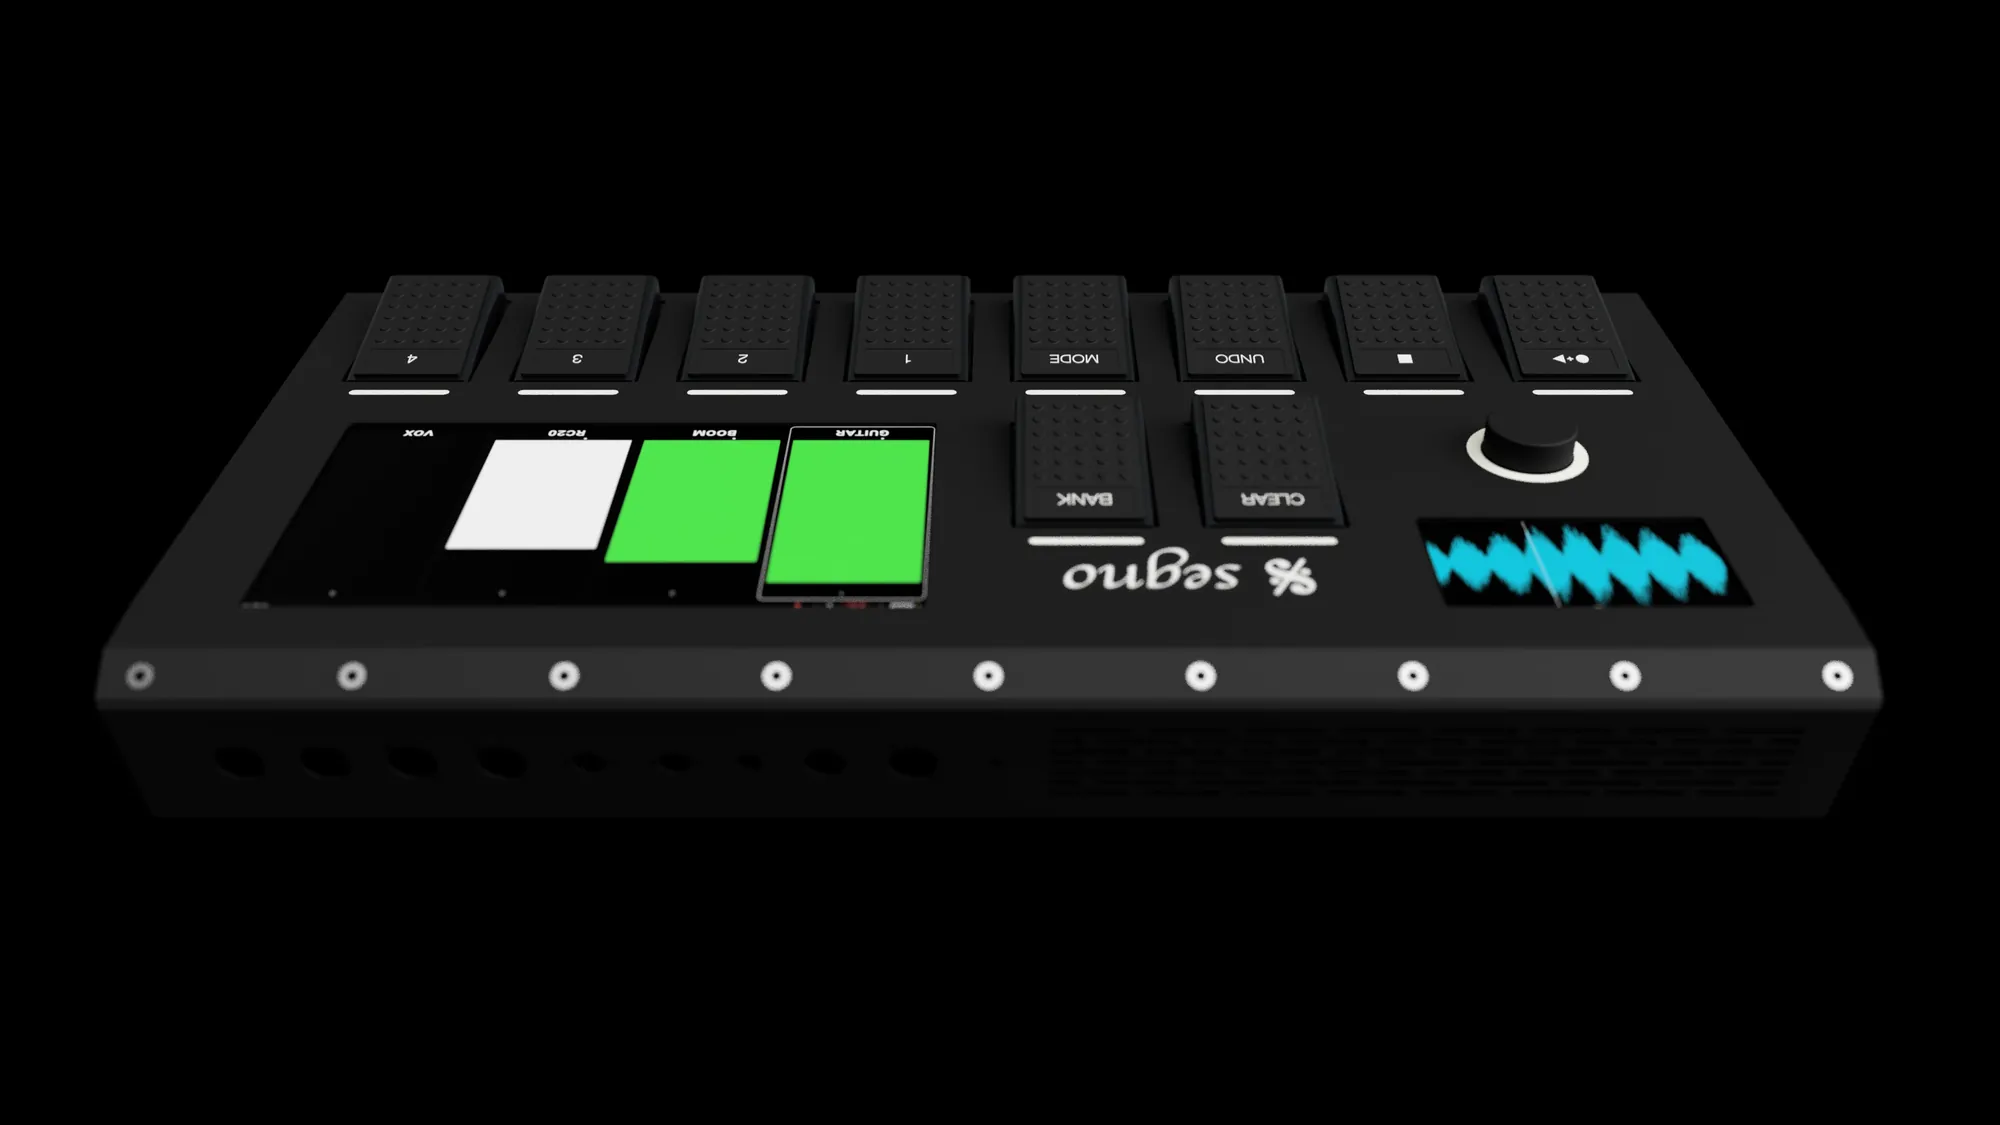
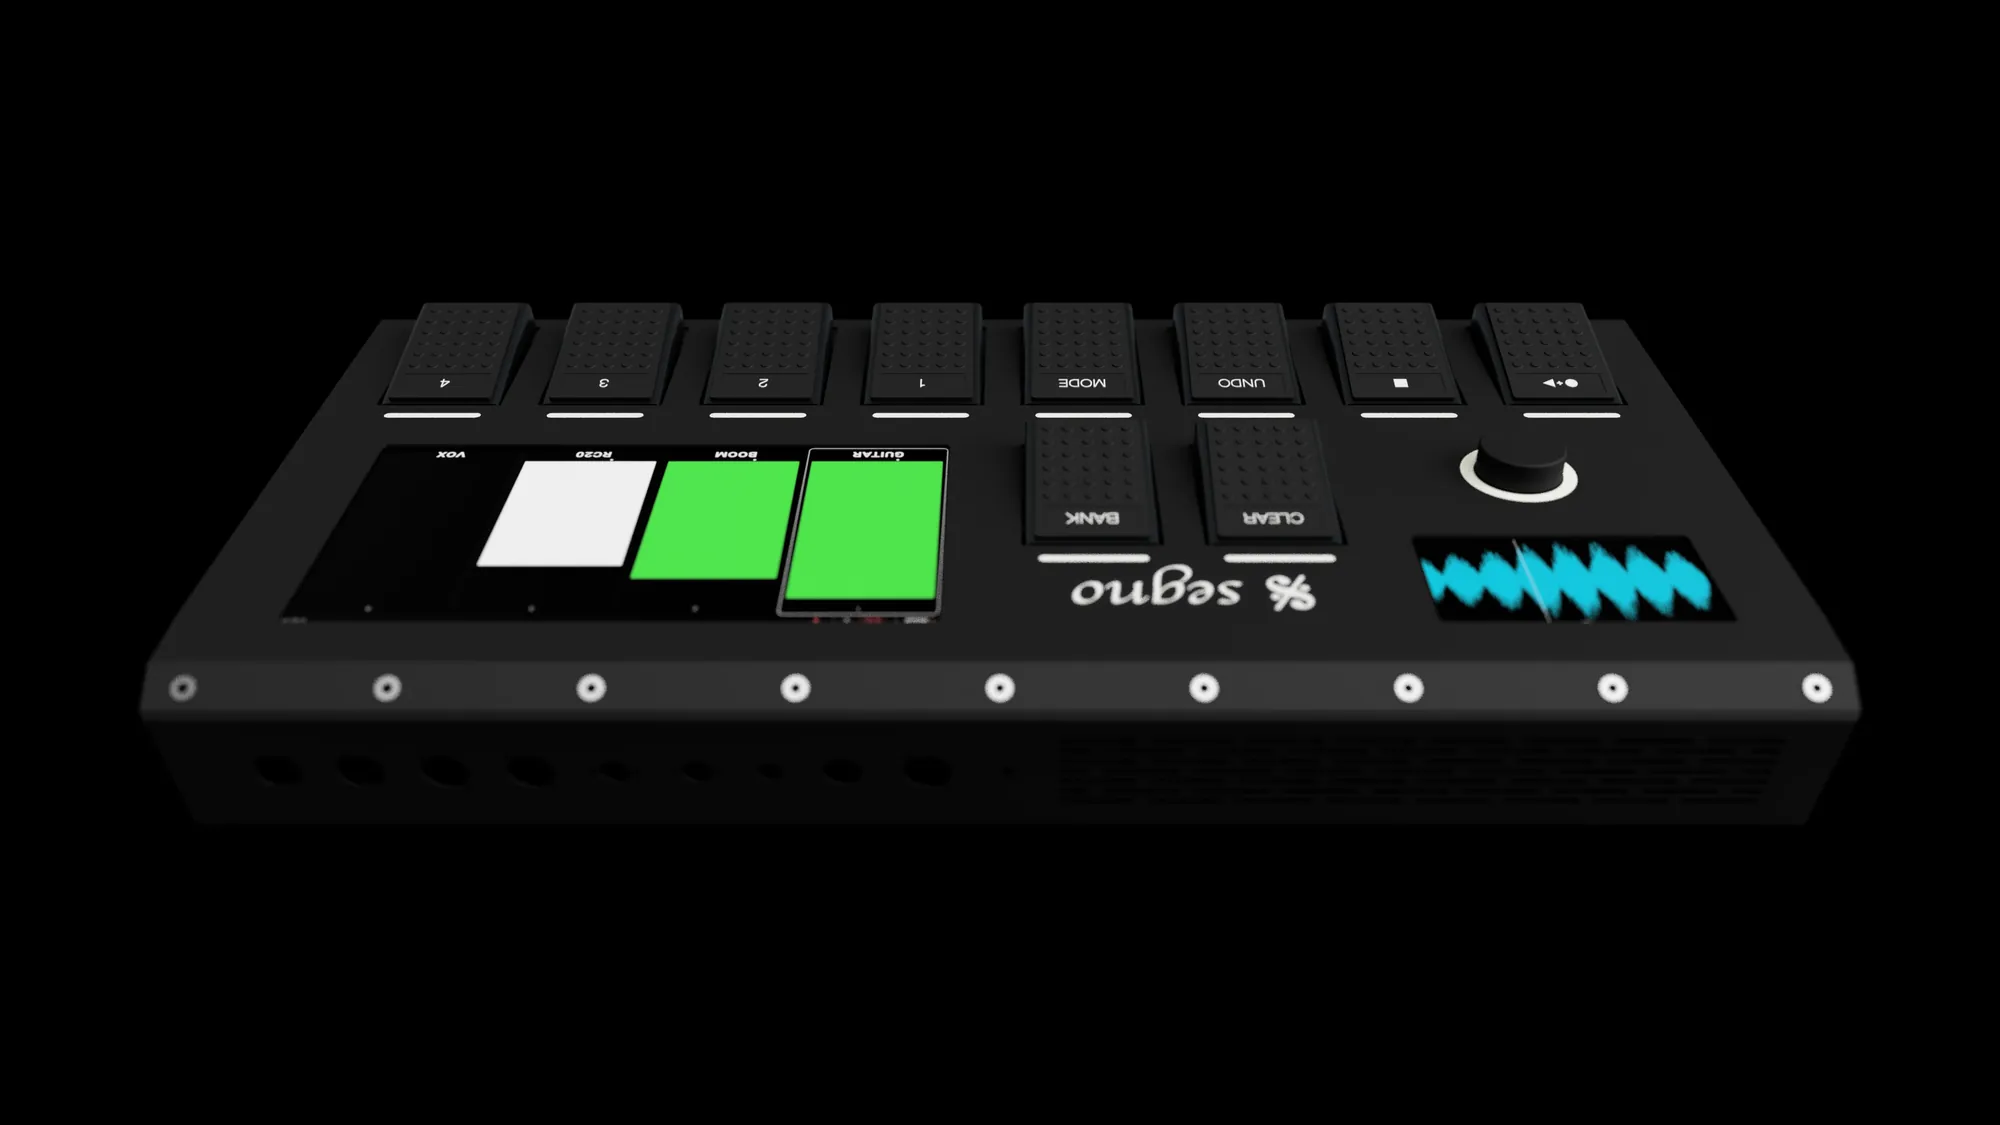
docs(site): centre the renders, phone navigation, asset versions, 404 (#1416)
* docs(site): centre the renders, phone navigation, asset versions, 404

- Re-crop every console render (hero, gallery, link preview) around the
  console's bounding box, so it sits in the middle of the frame.
- Phones keep the section links in a second header row; add a skip link.
- site/stamp.py versions every asset reference by content hash, nginx
  caches assets for a year, and the Site workflow fails on a stale version.
- Add a styled 404 page, robots.txt, sitemap.xml, a Twitter card tag and
  HSTS.
- Remove the #1409 row left in the Active threads table.

axe-core reports no violations in light or dark, on the page and the 404.

Closes #1415

* docs(site): version any cached asset path, show the phone nav scrollbar

stamp.py now versions every reference to a css, webp, jpg, png, svg or
woff2 file that exists under public/, including the absolute og:image URL,
instead of a fixed list of directories, so a new asset cannot be cached for
a year unversioned.

diff --git a/site/public/index.html b/site/public/index.html
@@ -9,20 +9,22 @@
 <meta name="theme-color" content="#0b0b0c" media="(prefers-color-scheme: dark)">
 <meta name="theme-color" content="#f6f6f4" media="(prefers-color-scheme: light)">
 <link rel="canonical" href="https://segno.aquiles.dev/">
-<link rel="icon" href="favicon.svg" type="image/svg+xml">
+<link rel="icon" href="favicon.svg?v=3c135dbe" type="image/svg+xml">
 <meta property="og:type" content="website">
 <meta property="og:title" content="Segno: a live looping appliance">
 <meta property="og:description" content="A floor console, a native C audio engine and a Flutter interface on a Raspberry Pi 5. Open source under GPLv3.">
 <meta property="og:url" content="https://segno.aquiles.dev/">
-<meta property="og:image" content="https://segno.aquiles.dev/img/og.jpg">
+<meta property="og:image" content="https://segno.aquiles.dev/img/og.jpg?v=999b8210">
 <meta property="og:image:width" content="1200">
 <meta property="og:image:height" content="630">
 <meta property="og:image:alt" content="Render of the Segno floor console.">
-<link rel="preload" href="fonts/Inter-Regular.woff2" as="font" type="font/woff2" crossorigin>
-<link rel="preload" href="fonts/Inter-SemiBold.woff2" as="font" type="font/woff2" crossorigin>
-<link rel="stylesheet" href="styles.css">
+<meta name="twitter:card" content="summary_large_image">
+<link rel="preload" href="fonts/Inter-Regular.woff2?v=5fedeecb" as="font" type="font/woff2" crossorigin>
+<link rel="preload" href="fonts/Inter-SemiBold.woff2?v=a6a1a4db" as="font" type="font/woff2" crossorigin>
+<link rel="stylesheet" href="styles.css?v=fb5c33e8">
 </head>
 <body>
+<a class="skip" href="#main">Skip to content</a>
 <svg class="sprite" aria-hidden="true">
   <symbol id="glyph" viewBox="0 0 1024 1024">
     <path transform="matrix(0.88590331 0 0 -0.88590331 266.60478372 836.24061069)" fill="currentColor" d="M135 665C141 665 148 663 151 652L153 645C160 618 175 559 226 559C267 559 295 583 295 626C295 641 292 657 287 673C271 719 204 736 153 736C83 736 4 650 4 551C4 527 9 502 20 477C52 404 197 315 205 312C209 310 211 308 211 304C211 300 209 295 205 288C198 274 54 15 54 15C52 11 51 6 51 2C51 -14 63 -27 79 -27C89 -27 99 -21 104 -12C104 -12 259 268 262 274C262 273 270 279 274 279C289 276 489 217 489 122C489 83 465 57 431 52L428 51C407 51 390 65 390 96V107C390 145 365 173 337 173C333 173 329 172 325 171C288 162 254 146 254 106C254 45 316 -8 375 -8C388 -8 402 -6 417 -1C497 26 550 91 550 174C550 183 549 193 548 203C533 313 375 402 363 408C351 415 346 419 346 424C346 426 347 428 348 430C353 438 508 717 508 717C511 722 512 726 512 731C512 747 499 759 484 759C474 759 464 754 459 745C459 745 300 458 294 449C291 444 289 441 285 441C282 441 279 442 275 444C266 447 115 505 89 550C83 561 75 582 75 603C75 630 87 658 129 665ZM415 466C415 435 441 409 472 409C504 409 529 435 529 466C529 498 504 523 472 523C441 523 415 498 415 466ZM140 264C140 295 115 321 83 321C52 321 26 295 26 264C26 232 52 207 83 207C115 207 140 232 140 264Z"/>
@@ -31,7 +33,7 @@
 
 <header class="bar">
   <div class="wrap bar-inner">
-    <a class="brand" href="#top" aria-label="Segno home">
+    <a class="brand" href="#main" aria-label="Segno, back to top">
       <svg class="brand-glyph" aria-hidden="true"><use href="#glyph"/></svg>
       <span class="brand-word">segno</span>
     </a>
@@ -44,7 +46,7 @@
   </div>
 </header>
 
-<main id="top">
+<main id="main" tabindex="-1">
   <section class="hero">
     <div class="wrap">
       <p class="eyebrow">Open source &middot; GPLv3</p>
@@ -56,8 +58,8 @@
       </div>
     </div>
     <figure class="hero-figure wrap">
-      <img src="img/console-iso-1200.webp"
-           srcset="img/console-iso-1200.webp 1200w, img/console-iso-2000.webp 2000w"
+      <img src="img/console-iso-1200.webp?v=d8154f14"
+           srcset="img/console-iso-1200.webp?v=d8154f14 1200w, img/console-iso-2000.webp?v=5b39a6c4 2000w"
            sizes="(min-width: 1200px) 1120px, 100vw"
            width="1200" height="675" fetchpriority="high"
            alt="The Segno console seen from above at an angle: ten footswitches with light bars, an encoder with a light ring, a small screen showing a waveform, and a large screen showing four tracks.">
@@ -110,12 +112,12 @@
       <p class="section-lede">The large screen shows the tracks and the mixer. The interface is a Flutter app that runs directly on the display hardware, one Flutter engine per screen.</p>
       <div class="shots">
         <figure>
-          <img src="img/tracks-main-window-1600.webp" width="1600" height="900" loading="lazy"
+          <img src="img/tracks-main-window-1600.webp?v=56dac517" width="1600" height="900" loading="lazy"
                alt="The Tracks view: four tracks named GUITAR, BOOM, RC20 and VOX with level meters, a timer and a BPM readout.">
           <figcaption>Tracks view.</figcaption>
         </figure>
         <figure>
-          <img src="img/tracks-mixer-window-1600.webp" width="1600" height="900" loading="lazy"
+          <img src="img/tracks-mixer-window-1600.webp?v=eb9b1342" width="1600" height="900" loading="lazy"
                alt="The mixer view: each track has mute and solo buttons, a pan control, a level in decibels and stereo meters.">
           <figcaption>Mixer view.</figcaption>
         </figure>
@@ -130,22 +132,22 @@
       <p class="section-lede">A wedge-shaped folded sheet-metal console, 850&nbsp;mm wide, with the top sloping toward the player. The ten footswitches are built into the chassis and wired inside it.</p>
       <div class="gallery">
         <figure class="wide">
-          <img src="img/console-low-1200.webp"
-               srcset="img/console-low-1200.webp 1200w, img/console-low-2000.webp 2000w"
+          <img src="img/console-low-1200.webp?v=d48be298"
+               srcset="img/console-low-1200.webp?v=d48be298 1200w, img/console-low-2000.webp?v=b2470c5f 2000w"
                sizes="(min-width: 1200px) 1120px, 100vw"
                width="1200" height="675" loading="lazy"
                alt="The console from a low angle at the left side, showing the ventilation slots, the waveform screen and the row of footswitches.">
         </figure>
         <figure>
-          <img src="img/console-rear-1200.webp"
-               srcset="img/console-rear-1200.webp 1200w, img/console-rear-2000.webp 2000w"
+          <img src="img/console-rear-1200.webp?v=e4e9c707"
+               srcset="img/console-rear-1200.webp?v=e4e9c707 1200w, img/console-rear-2000.webp?v=4c2ae073 2000w"
                sizes="(min-width: 760px) 50vw, 100vw"
                width="1200" height="675" loading="lazy"
                alt="The console seen from behind, showing the rear panel openings for connectors and a ventilation grille.">
         </figure>
         <figure>
-          <img src="img/console-edge-1200.webp"
-               srcset="img/console-edge-1200.webp 1200w, img/console-edge-2000.webp 2000w"
+          <img src="img/console-edge-1200.webp?v=fa1a1450"
+               srcset="img/console-edge-1200.webp?v=fa1a1450 1200w, img/console-edge-2000.webp?v=fe794d0c 2000w"
                sizes="(min-width: 760px) 50vw, 100vw"
                width="1200" height="675" loading="lazy"
                alt="The console seen almost edge-on along its top surface, with the footswitches and the large screen catching the light.">
@@ -167,7 +169,7 @@
           </ul>
         </div>
         <figure class="board">
-          <img src="img/console-board-1000.webp" width="1000" height="1000" loading="lazy"
+          <img src="img/console-board-1000.webp?v=ec4f0eb4" width="1000" height="1000" loading="lazy"
                alt="The console board v3: a purple circuit board with a Raspberry Pi Pico 2 in the middle, a 40-pin header for the Raspberry Pi, and labelled connectors for each footswitch, MIDI, the CTRL jacks, the LED pills and the ring board.">
           <figcaption>Console board v3, KiCad 3D view. Through-hole parts, designed to be soldered by hand.</figcaption>
         </figure>

diff --git a/site/public/styles.css b/site/public/styles.css
@@ -1,18 +1,18 @@
 @font-face {
   font-family: "Inter";
-  src: url("fonts/Inter-Regular.woff2") format("woff2");
+  src: url("fonts/Inter-Regular.woff2?v=5fedeecb") format("woff2");
   font-weight: 400;
   font-display: swap;
 }
 @font-face {
   font-family: "Inter";
-  src: url("fonts/Inter-SemiBold.woff2") format("woff2");
+  src: url("fonts/Inter-SemiBold.woff2?v=a6a1a4db") format("woff2");
   font-weight: 600;
   font-display: swap;
 }
 @font-face {
   font-family: "JetBrains Mono";
-  src: url("fonts/JetBrainsMono-Regular.woff2") format("woff2");
+  src: url("fonts/JetBrainsMono-Regular.woff2?v=13f9151f") format("woff2");
   font-weight: 400;
   font-display: swap;
 }
@@ -60,6 +60,20 @@ body {
   text-rendering: optimizeLegibility;
 }
 .sprite { position: absolute; width: 0; height: 0; }
+.skip {
+  position: absolute;
+  left: 16px;
+  top: -100px;
+  z-index: 20;
+  padding: 10px 16px;
+  border-radius: 8px;
+  background: var(--text);
+  color: var(--bg);
+  font-weight: 600;
+  text-decoration: none;
+}
+.skip:focus { top: calc(12px + env(safe-area-inset-top, 0px)); }
+main:focus { outline: none; }
 img { display: block; max-width: 100%; height: auto; }
 a { color: inherit; text-decoration-color: var(--line); text-underline-offset: 3px; }
 a:hover { text-decoration-color: currentColor; }
@@ -100,8 +114,19 @@ p { margin: 0; }
 }
 .nav a:hover { color: var(--text); background: var(--surface-2); }
 .nav .nav-source { color: var(--text); border: 1px solid var(--line); }
+/* Phones: the links move to a second row that scrolls sideways if it must. */
 @media (max-width: 620px) {
-  .nav a:not(.nav-source) { display: none; }
+  html { scroll-padding-top: 112px; }
+  .bar-inner { flex-wrap: wrap; height: auto; gap: 0; padding-block: 10px 6px; }
+  .nav {
+    width: calc(100% + 16px);
+    margin-inline: -8px;
+    padding-top: 4px;
+    overflow-x: auto;
+    scrollbar-width: thin;
+  }
+  .nav a { flex: none; padding-inline: 8px; }
+  .nav .nav-source { margin-left: auto; }
 }
 
 /* Hero */
@@ -275,3 +300,8 @@ h2 { font-size: clamp(30px, 4.2vw, 44px); }
 .foot { border-top: 1px solid var(--line); padding-block: 28px calc(28px + env(safe-area-inset-bottom, 0px)); }
 .foot-inner { display: flex; flex-wrap: wrap; justify-content: space-between; gap: 8px 24px; font-size: 14px; color: var(--muted); }
 .foot-glyph { width: 18px; height: 18px; vertical-align: -4px; color: var(--text); }
+
+/* 404 page */
+.missing { min-height: 100vh; min-height: 100dvh; display: flex; flex-direction: column; justify-content: center; padding-block: 48px; }
+.missing-glyph { width: 64px; height: 64px; margin-bottom: 24px; }
+.missing .actions { margin-top: 28px; }

diff --git a/site/public/404.html b/site/public/404.html
@@ -1,0 +1,29 @@
+<!doctype html>
+<html lang="en">
+<head>
+<meta charset="utf-8">
+<meta name="viewport" content="width=device-width, initial-scale=1, viewport-fit=cover">
+<title>Page not found · Segno</title>
+<meta name="robots" content="noindex">
+<meta name="color-scheme" content="dark light">
+<link rel="icon" href="/favicon.svg?v=3c135dbe" type="image/svg+xml">
+<link rel="stylesheet" href="/styles.css?v=fb5c33e8">
+</head>
+<body>
+<svg class="sprite" aria-hidden="true">
+  <symbol id="glyph" viewBox="0 0 1024 1024">
+    <path transform="matrix(0.88590331 0 0 -0.88590331 266.60478372 836.24061069)" fill="currentColor" d="M135 665C141 665 148 663 151 652L153 645C160 618 175 559 226 559C267 559 295 583 295 626C295 641 292 657 287 673C271 719 204 736 153 736C83 736 4 650 4 551C4 527 9 502 20 477C52 404 197 315 205 312C209 310 211 308 211 304C211 300 209 295 205 288C198 274 54 15 54 15C52 11 51 6 51 2C51 -14 63 -27 79 -27C89 -27 99 -21 104 -12C104 -12 259 268 262 274C262 273 270 279 274 279C289 276 489 217 489 122C489 83 465 57 431 52L428 51C407 51 390 65 390 96V107C390 145 365 173 337 173C333 173 329 172 325 171C288 162 254 146 254 106C254 45 316 -8 375 -8C388 -8 402 -6 417 -1C497 26 550 91 550 174C550 183 549 193 548 203C533 313 375 402 363 408C351 415 346 419 346 424C346 426 347 428 348 430C353 438 508 717 508 717C511 722 512 726 512 731C512 747 499 759 484 759C474 759 464 754 459 745C459 745 300 458 294 449C291 444 289 441 285 441C282 441 279 442 275 444C266 447 115 505 89 550C83 561 75 582 75 603C75 630 87 658 129 665ZM415 466C415 435 441 409 472 409C504 409 529 435 529 466C529 498 504 523 472 523C441 523 415 498 415 466ZM140 264C140 295 115 321 83 321C52 321 26 295 26 264C26 232 52 207 83 207C115 207 140 232 140 264Z"/>
+  </symbol>
+</svg>
+
+<main id="main" class="missing wrap">
+  <svg class="missing-glyph" aria-hidden="true"><use href="#glyph"/></svg>
+  <h1>Page not found</h1>
+  <p class="lede">There is nothing at this address.</p>
+  <div class="actions">
+    <a class="button primary" href="/">Go to the Segno page</a>
+    <a class="button" href="https://github.com/tomassasovsky/segno">View the source on GitHub</a>
+  </div>
+</main>
+</body>
+</html>

diff --git a/site/stamp.py b/site/stamp.py
@@ -1,0 +1,67 @@
+#!/usr/bin/env python3
+"""Version every local asset reference in the site by content hash.
+
+Each reference to a file under site/public with an extension nginx caches
+(css, webp, jpg, png, svg, woff2) gets `?v=<first 8 hex of its sha256>`, so
+nginx can cache assets for a year and a changed file still reaches visitors
+at once.
+
+    python3 site/stamp.py           rewrite the references in place
+    python3 site/stamp.py --check   exit 1 if any reference is stale (CI)
+
+styles.css is stamped before the pages because its own hash covers the
+font references inside it.
+"""
+
+import hashlib
+import pathlib
+import re
+import sys
+
+PUBLIC = pathlib.Path(__file__).resolve().parent / "public"
+# styles.css first: the pages reference it, so its hash must be final.
+FILES = ["styles.css", "index.html", "404.html"]
+# A relative or root-relative path, or a URL on the site's own host (og:image),
+# with an extension nginx caches for a year (nginx.conf). Paths that do not
+# name a file under public/ are left alone.
+ASSET = re.compile(
+    r"(?P<prefix>https://segno\.aquiles\.dev/|(?<![\w./:-])/?)"
+    r"(?P<path>[\w-][\w./-]*\.(?:css|webp|jpg|png|svg|woff2))"
+    r"(?:\?v=[0-9a-f]*)?"
+)
+
+
+def version(path: str) -> str:
+    return hashlib.sha256((PUBLIC / path).read_bytes()).hexdigest()[:8]
+
+
+def stamp(text: str) -> str:
+    def replace(m: re.Match) -> str:
+        if not (PUBLIC / m["path"]).is_file():
+            return m[0]
+        return f"{m['prefix']}{m['path']}?v={version(m['path'])}"
+
+    return ASSET.sub(replace, text)
+
+
+def main() -> int:
+    check = "--check" in sys.argv[1:]
+    stale = []
+    for name in FILES:
+        file = PUBLIC / name
+        before = file.read_text(encoding="utf-8")
+        after = stamp(before)
+        if after != before:
+            stale.append(name)
+            if not check:
+                file.write_text(after, encoding="utf-8")
+    if check and stale:
+        print(f"stale asset versions in {', '.join(stale)}; run python3 site/stamp.py")
+        return 1
+    if not check:
+        print(f"stamped {', '.join(stale) or 'nothing (already current)'}")
+    return 0
+
+
+if __name__ == "__main__":
+    sys.exit(main())

diff --git a/site/README.md b/site/README.md
@@ -7,12 +7,27 @@ no build step and no JavaScript.
 
 ```
 public/index.html   the page
+public/404.html     the not-found page
 public/styles.css   light and dark palettes, phone layout
+public/robots.txt   and sitemap.xml
 public/img/         console renders, UI captures, the board view (WebP)
 public/fonts/       Inter and JetBrains Mono, subset to Latin-1 (OFL)
 nginx.conf          the server block inside the image
 Dockerfile          nginx:alpine with public/ baked in
+stamp.py            versions asset references by content hash
 ```
+
+## Asset versions
+
+Every reference to a local asset carries `?v=<hash>`, and nginx caches assets
+for a year. After changing any file under `public/`, run:
+
+```bash
+python3 site/stamp.py
+```
+
+The Site workflow runs `python3 site/stamp.py --check` and fails on a stale
+version.
 
 ## Preview
 
@@ -27,7 +42,10 @@ model, the board view from KiCad, and the interface images from the app's UI
 tests (`test/screenshots/goldens`). None of them is a photo, and the page says
 so. Do not use generated art.
 
-To add a render, convert it to WebP at 1200 and 2000 pixels wide:
+Crop renders so the console sits in the middle of the frame: centre the crop
+on the console's bounding box (the pixels brighter than the black background),
+not on the original frame. To add a render, convert it to WebP at 1200 and
+2000 pixels wide:
 
 ```bash
 magick render.png -resize 1200x -strip -quality 80 site/public/img/name-1200.webp

diff --git a/docs/PROGRESS.md b/docs/PROGRESS.md
@@ -48,7 +48,6 @@ the issue labels, which are authoritative; if a row disagrees, fix the row.
 | #1200 | Backing player | plan | merge-gate | `claude/backing-1200-*` |
 | #1202 | Shared render recipe, Bounce, Save selected | plan | merge-gate | `claude/render-1202-*` |
 | #1228 | MIDI clock | plan | merge-gate | `claude/midi-clock-1228-*` |
-| #1409 | Website at segno.aquiles.dev | build | merge-gate | `claude/website-1409` |
 | #1270 | Device and appliance pages | plan | merge-gate | `claude/device-pages-plan-1270` |
 | #1342 | Ring carrier firmware updates from the console | in-review | blocked-verify | `claude/ring-update-1342` |
 
